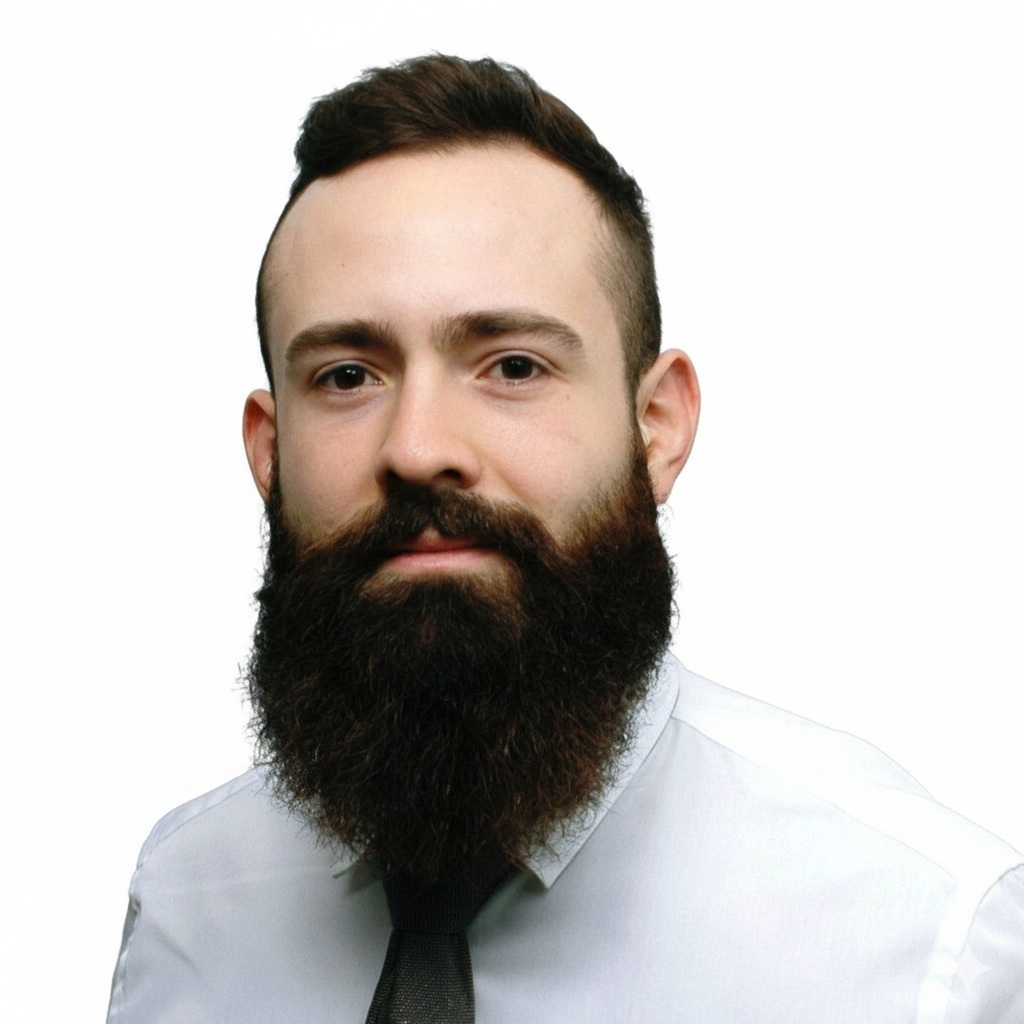
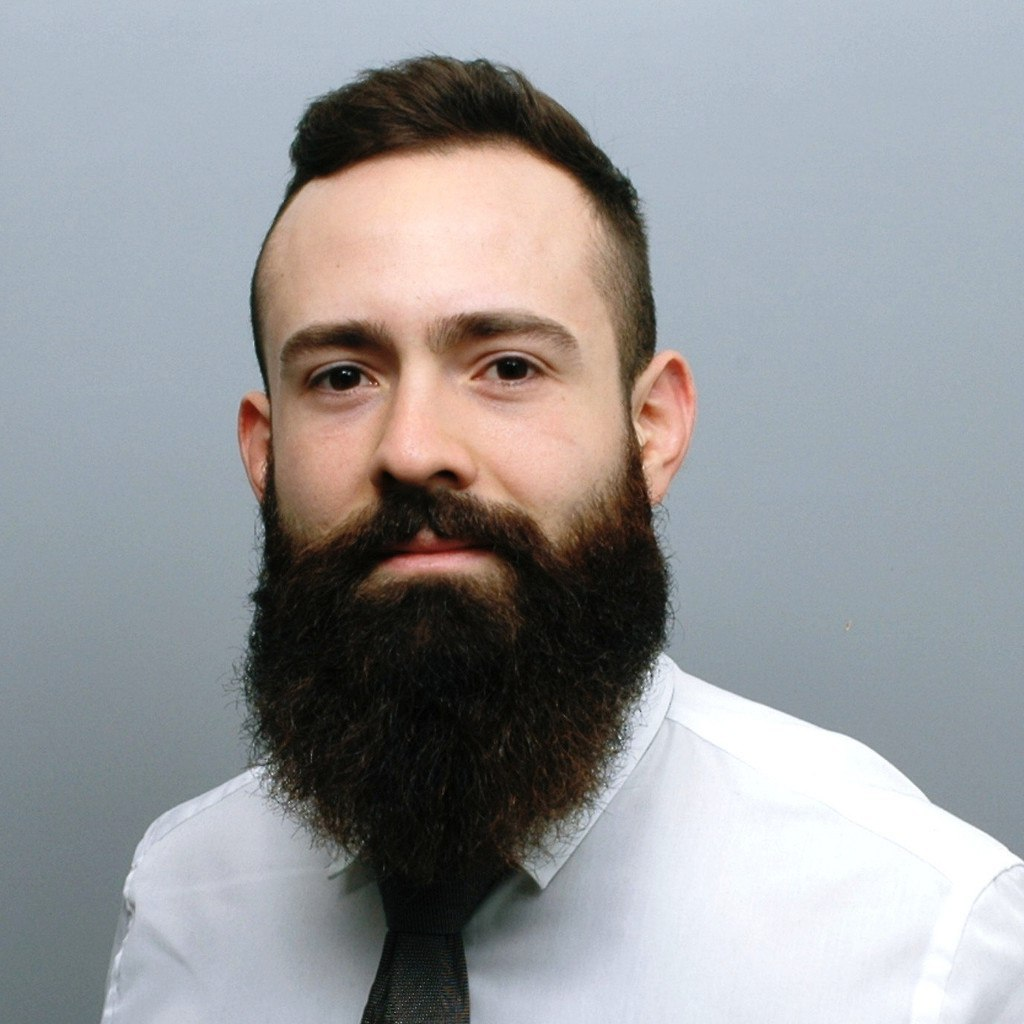
team added

diff --git a/index.html b/index.html
@@ -2648,10 +2648,10 @@
                     </div>
                 </div>
 
-                <!-- Serkan Glatt - Placeholder -->
-                <div class="team-member placeholder">
+                <!-- Serkan Glatt -->
+                <div class="team-member">
                     <div class="member-photo">
-                        <div class="avatar-placeholder">SG</div>
+                        <img src="images/serkan.jpg" alt="Serkan Glatt">
                     </div>
                     <h3 class="member-name">Serkan Glatt</h3>
                     <p class="member-role" data-i18n="team.serkan.role">Co-Founder & Business Development</p>
@@ -2663,19 +2663,19 @@
                     </div>
                 </div>
 
-                <!-- Third Member - Placeholder -->
-                <div class="team-member placeholder recruiting">
+                <!-- Benedikt Lee's Profile -->
+                <div class="team-member">
                     <div class="member-photo">
-                        <div class="avatar-placeholder">
-                            <svg xmlns="http://www.w3.org/2000/svg" viewBox="0 0 24 24" fill="currentColor">
-                                <path d="M19 13h-6v6h-2v-6H5v-2h6V5h2v6h6v2z"/>
-                            </svg>
-                        </div>
+                        <img src="images/benedikt.jpg" alt="Benedikt Lee">
                     </div>
-                    <h3 class="member-name" data-i18n="team.recruiting.name">Werden Sie Teil des Teams</h3>
-                    <p class="member-role" data-i18n="team.recruiting.role">Wir wachsen</p>
-                    <p class="member-bio" data-i18n="team.recruiting.bio">Sind Sie leidenschaftlich daran interessiert, lokalen Unternehmen zu helfen? Wir suchen talentierte Menschen, die unser Team verstärken möchten.</p>
-                    <a href="#cta" class="join-team-btn" data-i18n="team.recruiting.cta">Kontakt aufnehmen</a>
+                    <h3 class="member-name">Benedikt Lee</h3>
+                    <p class="member-role" data-i18n="team.benedikt.role">Data Analytics & Compliance Specialist</p>
+                    <p class="member-bio" data-i18n="team.benedikt.bio">M.Sc. Ingenieur (Universität Stuttgart) mit Expertise in Datenanalyse, DSGVO-Compliance und Business Intelligence. Optimiert Website-Performance durch datenbasierte Entscheidungen und sorgt für rechtssichere digitale Lösungen.</p>
+                    <div class="member-skills">
+                        <span class="skill-badge">M.Sc. Universität Stuttgart</span>
+                        <span class="skill-badge">Analytics • DSGVO • SEO</span>
+                        <span class="skill-badge">DE • EN • KR</span>
+                    </div>
                 </div>
             </div>
         </div>
@@ -2896,11 +2896,9 @@
                         skill2: "Customer Success",
                         skill3: "Strategy"
                     },
-                    recruiting: {
-                        name: "Join Our Team",
-                        role: "We're Growing",
-                        bio: "Are you passionate about helping local businesses? We're looking for talented people who want to strengthen our team.",
-                        cta: "Get in Touch"
+                    benedikt: {
+                        role: "Data Analytics & Compliance Specialist",
+                        bio: "M.Sc. Engineer (University of Stuttgart) with expertise in data analysis, GDPR compliance and business intelligence. Optimizes website performance through data-driven decisions and ensures legally compliant digital solutions."
                     }
                 },
                 pricing: {
@@ -3117,11 +3115,9 @@
                         skill2: "Kundenerfolg",
                         skill3: "Strategie"
                     },
-                    recruiting: {
-                        name: "Werden Sie Teil des Teams",
-                        role: "Wir wachsen",
-                        bio: "Sind Sie leidenschaftlich daran interessiert, lokalen Unternehmen zu helfen? Wir suchen talentierte Menschen, die unser Team verstärken möchten.",
-                        cta: "Kontakt aufnehmen"
+                    benedikt: {
+                        role: "Data Analytics & Compliance Specialist",
+                        bio: "M.Sc. Ingenieur (Universität Stuttgart) mit Expertise in Datenanalyse, DSGVO-Compliance und Business Intelligence. Optimiert Website-Performance durch datenbasierte Entscheidungen und sorgt für rechtssichere digitale Lösungen."
                     }
                 },
                 pricing: {
